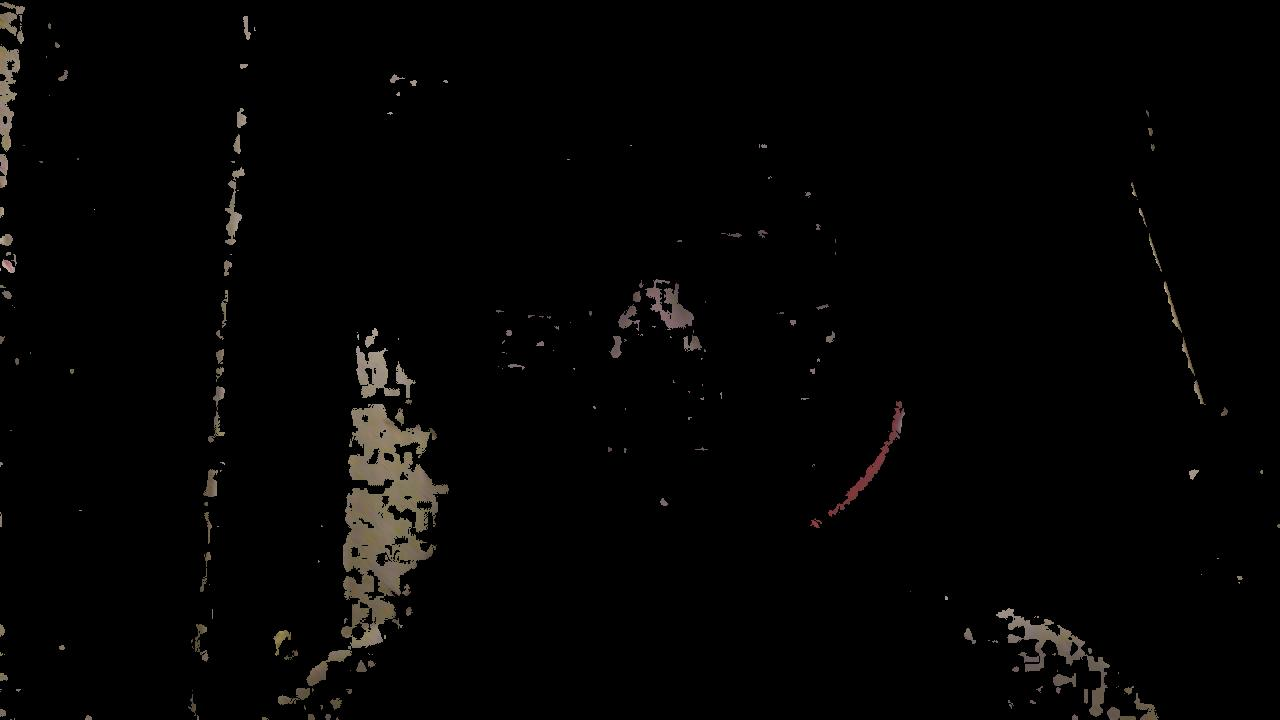
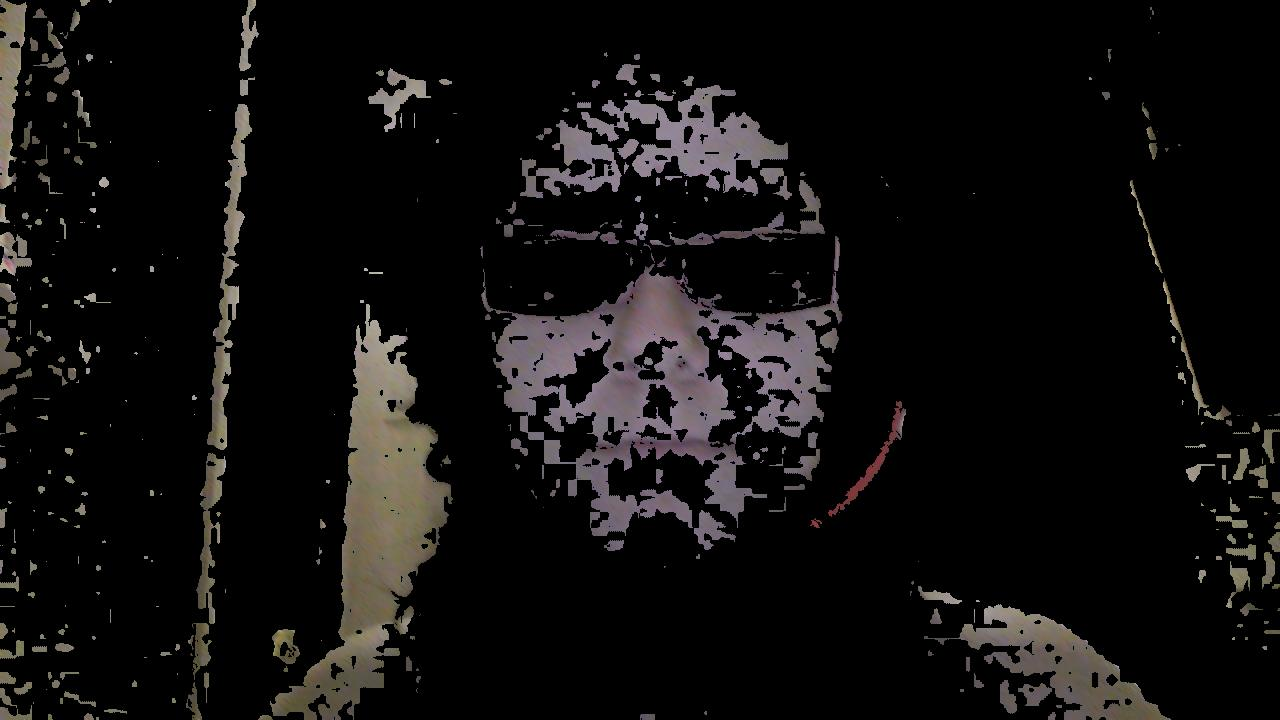
Ajustando skin para casos ruins

diff --git a/Filtros/filtros.py b/Filtros/filtros.py
@@ -23,7 +23,8 @@ class Simple3ChannelsFilters:
 		Cb = 128 + (-0.148*RGB[0] - 0.291*RGB[1] + 0.439*RGB[2]);
 		Cr = 128 + (0.439*RGB[0] - 0.368*RGB[1] - 0.071*RGB[2]);
 		YCbCr = (Y, Cb, Cr)
-		if ( (80 <= YCbCr[0]) and (YCbCr[0] <= 230) and (77 <= YCbCr[1]) and (YCbCr[1]  <= 127) and (133 <= YCbCr[2]) and (YCbCr[2] <=173) ):
+		#if ( (80 <= YCbCr[0]) and (YCbCr[0] <= 230) and (77 <= YCbCr[1]) and (YCbCr[1]  <= 127) and (133 <= YCbCr[2]) and (YCbCr[2] <=173) ):
+		if ( (80 <= YCbCr[0]) and (YCbCr[0] <= 230) and (77 <= YCbCr[1]) and (YCbCr[1]  <= 135) and (130 <= YCbCr[2]) and (YCbCr[2] <=173) ):
 		    return RGB
 		else:
 		    return (0,0,0)

diff --git a/Filtros/teste.py b/Filtros/teste.py
@@ -13,3 +13,12 @@ myImg.save()
 #myImg.applyComplex3ChannelsFilters(complex3CFilters.gaussianRGB, [], 5)
 #myImg.save()
 
+
+"""RGB=[145,130,149]
+Y = 16 + (0.257*RGB[0] + 0.504*RGB[1] + 0.098*RGB[2]);
+Cb = 128 + (-0.148*RGB[0] - 0.291*RGB[1] + 0.439*RGB[2]);
+Cr = 128 + (0.439*RGB[0] - 0.368*RGB[1] - 0.071*RGB[2]);
+YCbCr = (Y, Cb, Cr)
+print YCbCr"""
+
+
